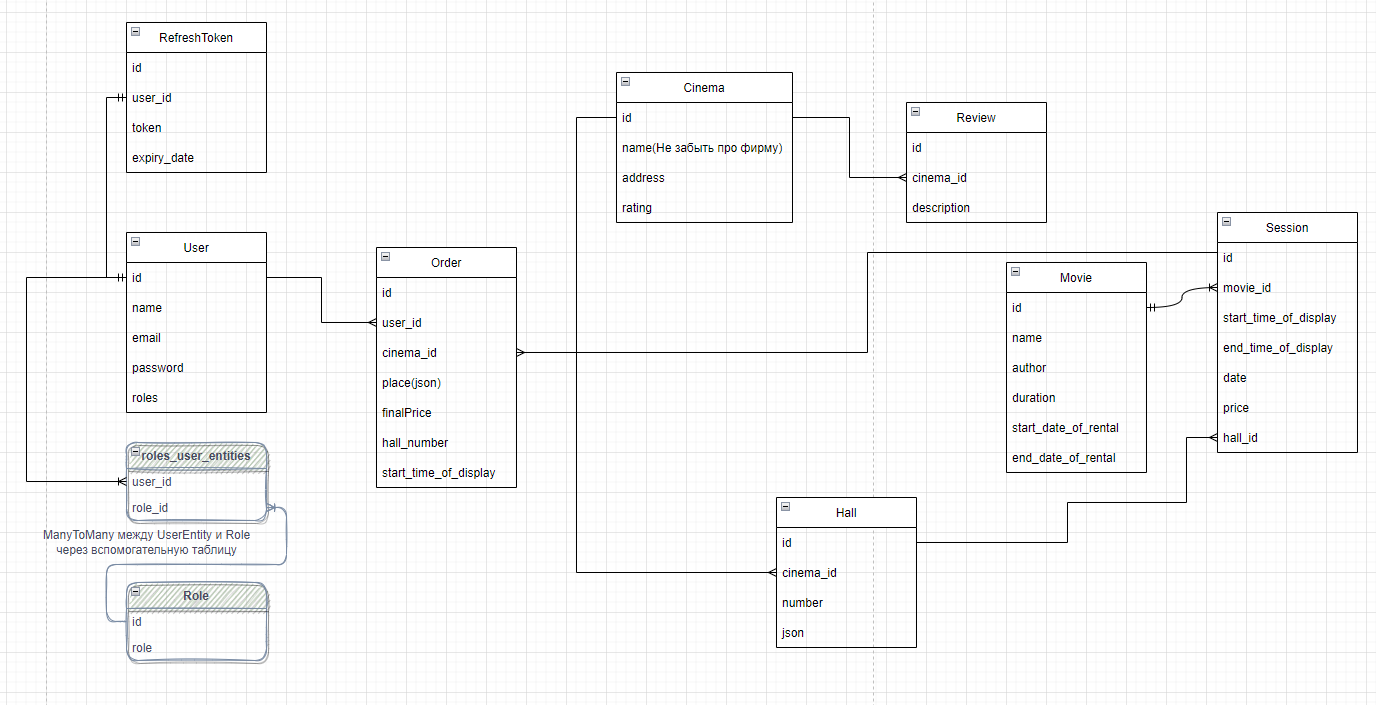
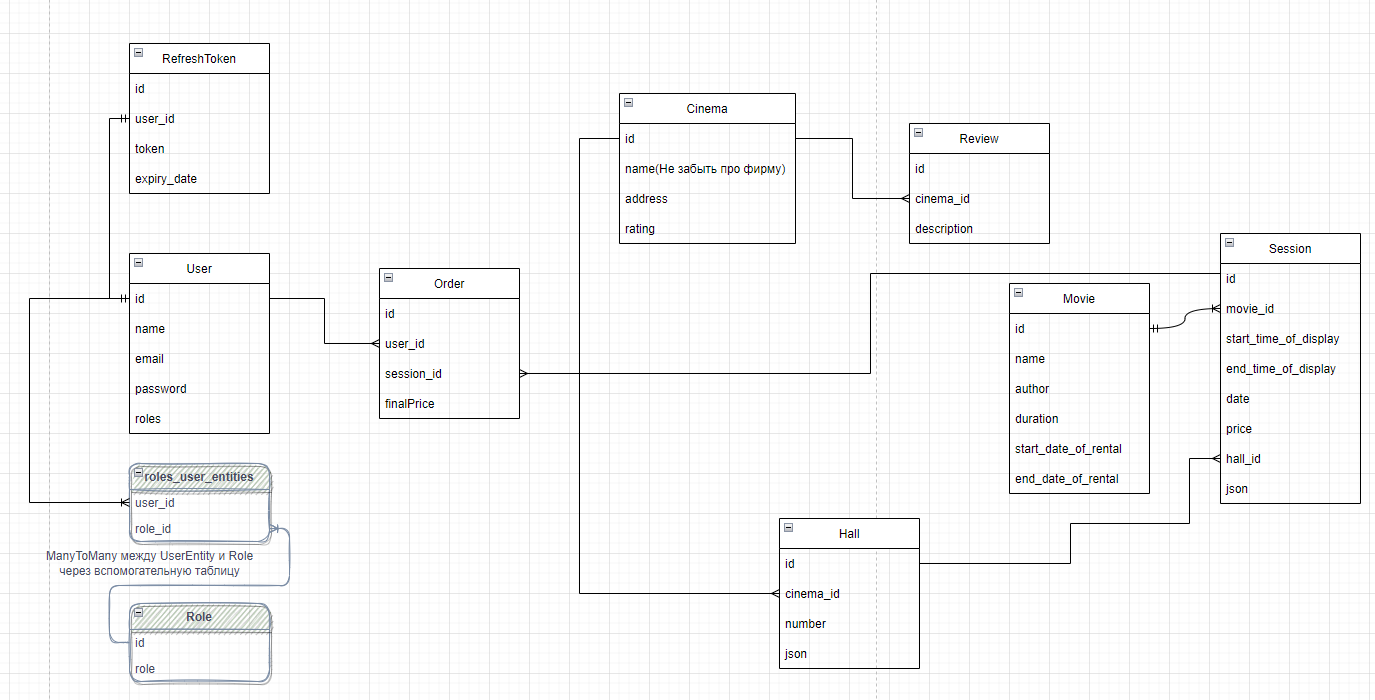
Corrected db.png + hall/add

diff --git a/src/main/java/com/example/cinema/Service/HallService.java b/src/main/java/com/example/cinema/Service/HallService.java
@@ -1,0 +1,58 @@
+package com.example.cinema.Service;
+
+import com.example.cinema.Dops.StaticMethods;
+import com.example.cinema.Entity.Cinema;
+import com.example.cinema.Entity.Hall;
+import com.example.cinema.Repository.HallRepository;
+import org.json.JSONException;
+import org.json.JSONObject;
+import org.springframework.beans.factory.annotation.Autowired;
+import org.springframework.stereotype.Service;
+
+import javax.servlet.http.HttpServletResponse;
+
+@Service
+public class HallService {
+
+    @Autowired
+    HallRepository hallRepository;
+    @Autowired
+    CinemaService cinemaService;
+
+
+    public void addHall(String body) {
+        String strCinema_id = StaticMethods.parsingJson(body, "cinema_id");
+        String strNumber = StaticMethods.parsingJson(body, "number");
+        String json;
+
+        try {
+            JSONObject jsonObject = new JSONObject(body);
+            json = jsonObject.getJSONObject("json").toString();
+        } catch (JSONException e) {
+            StaticMethods.createResponse(HttpServletResponse.SC_BAD_REQUEST, "Incorrect JSON");
+            return;
+        }
+
+        if(strCinema_id == null || strNumber == null || json == null){
+            StaticMethods.createResponse(HttpServletResponse.SC_BAD_REQUEST, "Incorrect JSON");
+            return;
+        }
+
+        int cinema_id = Integer.parseInt(strCinema_id);
+        int number = Integer.parseInt(strNumber);
+
+        if(!cinemaService.existsById((long) cinema_id)){
+            StaticMethods.createResponse(HttpServletResponse.SC_BAD_REQUEST, "Cinema with this id doesn't exist");
+            return;
+        }
+
+        Cinema cinema = cinemaService.getById((long) cinema_id);
+
+        Hall hall = new Hall();
+        hall.setNumber(number);
+        hall.setJson(json);
+        hall.setCinema(cinema);
+        hallRepository.save(hall);
+        StaticMethods.createResponse(HttpServletResponse.SC_CREATED, "Cinema with this id doesn't exist");
+    }
+}

diff --git a/src/main/java/com/example/cinema/Controller/CinemaController.java b/src/main/java/com/example/cinema/Controller/CinemaController.java
@@ -6,10 +6,7 @@ import graphql.ExecutionResult;
 import org.springframework.beans.factory.annotation.Autowired;
 import org.springframework.http.HttpStatus;
 import org.springframework.http.ResponseEntity;
-import org.springframework.web.bind.annotation.PostMapping;
-import org.springframework.web.bind.annotation.RequestBody;
-import org.springframework.web.bind.annotation.RequestMapping;
-import org.springframework.web.bind.annotation.RestController;
+import org.springframework.web.bind.annotation.*;
 
 @RestController
 @RequestMapping("/api/cinema")
@@ -20,17 +17,26 @@ public class CinemaController {
     @Autowired
     GraphQLService graphQLService;
 
+    // REST_API
     @PostMapping("/addCinema")
     public void addCinema(@RequestBody String body){
         cinemaService.addCinema(body);
     }
 
+
+    //GRAPHQL
     @PostMapping("/getAll")
     public ResponseEntity<Object> getAll(@RequestBody String query){
         ExecutionResult executionResult = graphQLService.getGraphQL().execute(query);
         return new ResponseEntity<>(executionResult, HttpStatus.OK);
     }
 
+    // ?
+//    @DeleteMapping("/delete")
+
+
+    // ?
+//    @PutMapping("/edit")
 
 
 }

diff --git a/src/main/java/com/example/cinema/Controller/HallController.java b/src/main/java/com/example/cinema/Controller/HallController.java
@@ -1,0 +1,21 @@
+package com.example.cinema.Controller;
+
+import com.example.cinema.Service.HallService;
+import lombok.AllArgsConstructor;
+import org.springframework.beans.factory.annotation.Autowired;
+import org.springframework.web.bind.annotation.*;
+
+@RestController
+@RequestMapping("/api/hall")
+public class HallController {
+
+    @Autowired
+    HallService hallService;
+
+    // REST_API
+    @PostMapping("/addHall")
+    public void addHall(@RequestBody String body){
+        hallService.addHall(body);
+    }
+
+}

diff --git a/src/main/java/com/example/cinema/Repository/HallRepository.java b/src/main/java/com/example/cinema/Repository/HallRepository.java
@@ -1,0 +1,10 @@
+package com.example.cinema.Repository;
+
+import com.example.cinema.Entity.Hall;
+import org.springframework.data.jpa.repository.JpaRepository;
+import org.springframework.stereotype.Repository;
+import org.springframework.web.bind.annotation.RequestBody;
+
+@Repository
+public interface HallRepository extends JpaRepository<Hall, Long> {
+}

diff --git a/src/main/java/com/example/cinema/Service/CinemaService.java b/src/main/java/com/example/cinema/Service/CinemaService.java
@@ -44,4 +44,8 @@ public class CinemaService {
     public List<Cinema> findAll() {
         return cinemaRepository.findAll();
     }
+
+    public Boolean existsById(Long id){
+        return cinemaRepository.existsById(id);
+    }
 }
